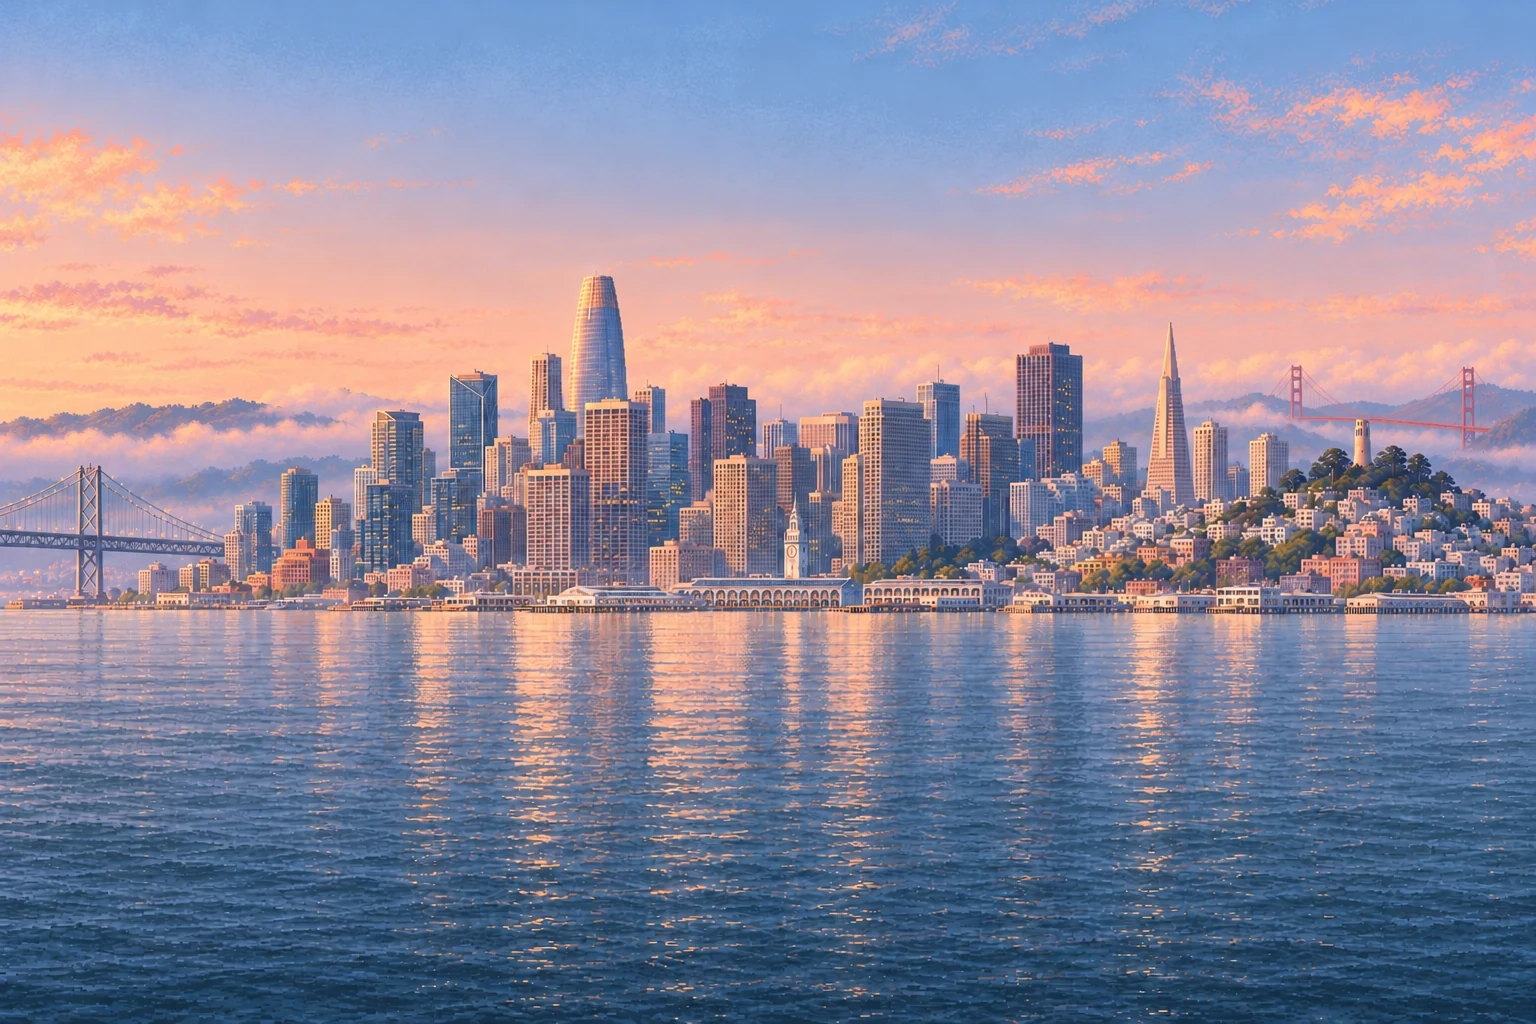
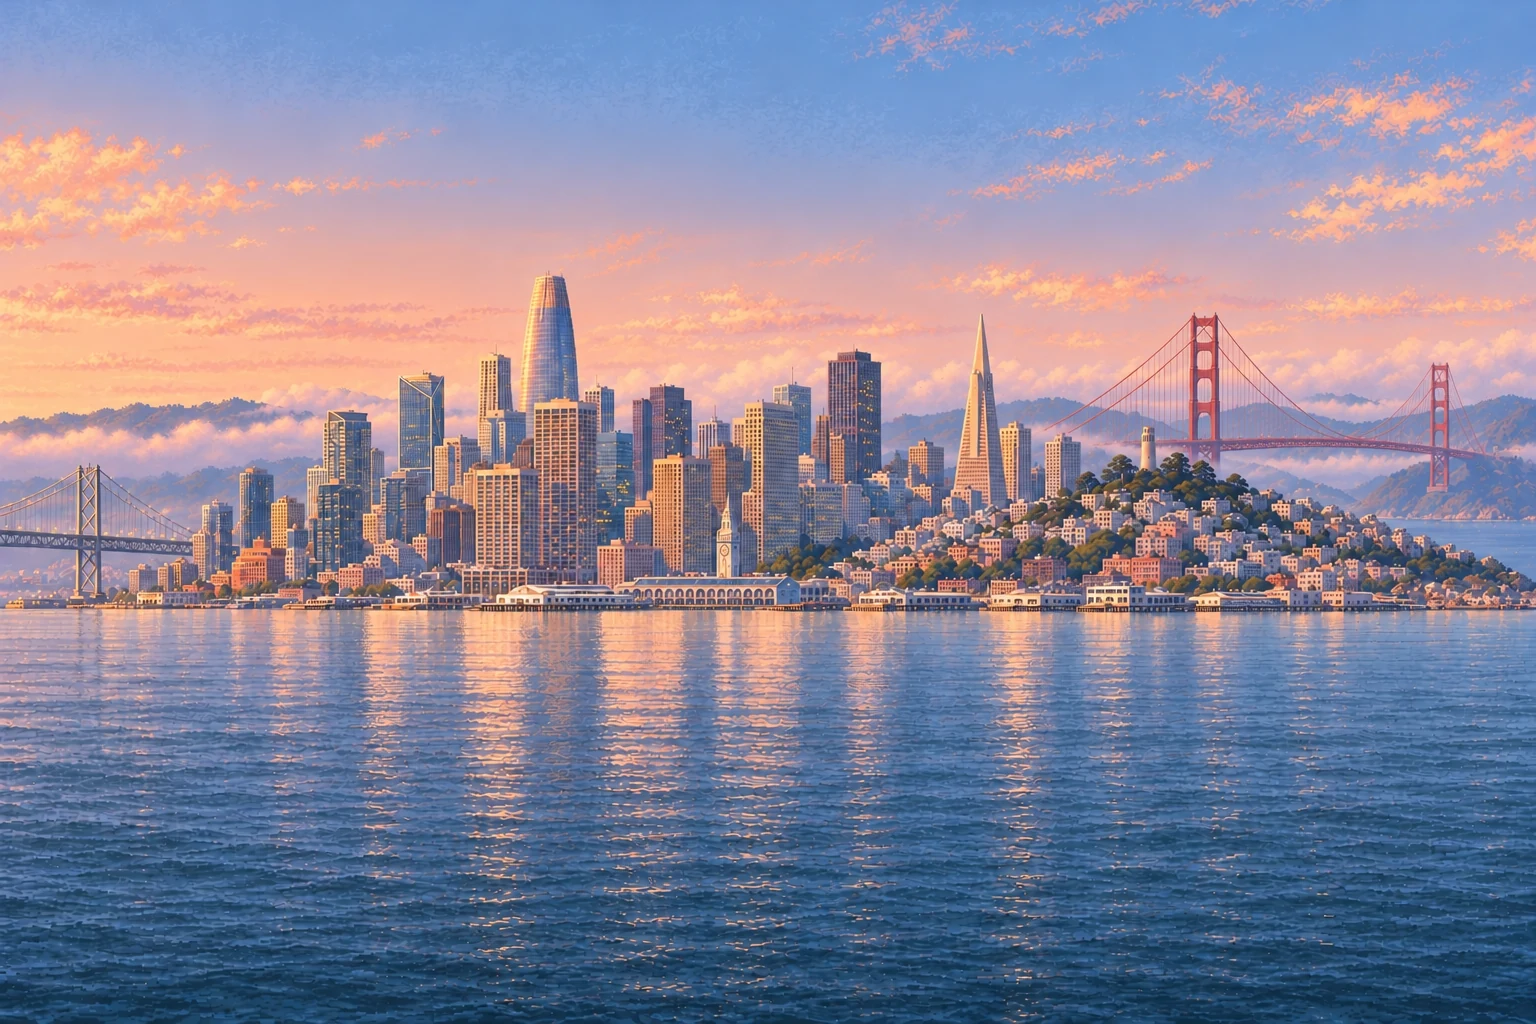
style(artwork): emphasize the Golden Gate Bridge

diff --git a/src/assets/artwork/sf/GOLDEN_GATE_PROMPTS.md b/src/assets/artwork/sf/GOLDEN_GATE_PROMPTS.md
@@ -1,19 +1,48 @@
 ## Golden Gate Bridge revision prompts
 
-The daytime image was edited first. Each remaining variant used that edited daytime composition as image 1 and its original lighting variant as image 2. Generated PNGs were encoded as WebP with `cwebp -q 88 -m 6`.
+## October 27, 2026 — larger background bridge
+
+Generated with the built-in imagegen tool and approved after preview. The Golden Gate Bridge occupies the right third while the city remains the main subject. Each image is 1536×1024, encoded with `cwebp -q 88 -m 6`.
+
+The day edit used the October 21 artwork as image 1 and a rejected foreground-bridge concept as image 2 to establish the intended intermediate scale. Dawn, sunset, and night each used the new day composition as image 1 and their October 21 counterpart as the palette reference.
 
 ### Day
 
-Use case: precise-object-edit. Asset type: San Francisco desktop app background, landscape 3:2. Input image 1 is the edit target. Add the recognizable International Orange GOLDEN GATE BRIDGE in the distant right side of this San Francisco bay panorama, beyond the waterfront and Telegraph Hill, with two unmistakable tall rectangular Art Deco suspension towers, curved main cables, delicate vertical suspension cables, and a horizontal road deck spanning a gap in the distant coastal hills. The existing silver Bay Bridge on the far left should remain; the Golden Gate is a second bridge, on the right. Make both orange towers visible and the silhouette recognizable at desktop background scale, integrated into the coastal haze with believable depth. Adjust only the distant right hills and a few small background blocks needed to reveal it. Preserve the main downtown skyline, Salesforce Tower, Transamerica Pyramid, Coit Tower, Ferry Building, existing foreground water, sky, horizon height, existing fine dithered pixel-painting style, subtle natural colors, late morning daylight and landscape aspect ratio. The Golden Gate should feel part of the original editorial illustration. Keep expansive calm water across the bottom 40% for UI overlay. No text, logos, UI, borders, extra landmarks, boats or dramatic lighting. Return one finished full image.
+Use case: precise-object-edit.
+Asset type: San Francisco desktop-app background. One full-bleed landscape 3:2 illustration, 1536x1024.
+Input image 1 is the ORIGINAL skyline artwork to revise. Input image 2 is a REJECTED example: its bridge is far too large and dominates the foreground. Find the clear middle ground: a much more readable Golden Gate than image 1, substantially smaller and farther away than image 2.
+Recompose the right third of image 1. Give the Golden Gate Bridge about 35 percent of the total image width, extending from x=65% to the right edge. Two distinct orange towers centered approximately at x=74% and x=93%; the nearer tower's top around y=25%, the far tower's top around y=29%, road deck around y=46%, bases hidden naturally behind distant shoreline around y=51%. These bridge towers must be about 2.5 TIMES THE ORIGINAL TOWER HEIGHT so the difference is visibly obvious. The nearer bridge tower should be comparable in apparent height to the Transamerica Pyramid but remain subordinate to the entire downtown cluster. Curved orange suspension cables and both Art Deco towers must be unmistakable against pale sky.
+Make room by shifting the Transamerica Pyramid slightly toward the center and compressing the rightmost city buildings and hills. Downtown remains the main subject, occupying the left and middle two-thirds, with Salesforce Tower and Ferry Building prominent. Keep Coit Tower and a small hill below the new bridge. The bridge stays BEHIND the city and Telegraph Hill with believable coastal depth; it must never cross in front of the downtown buildings or span the foreground water. Keep the separate small gray Bay Bridge at the far left. No additional bridge duplicates.
+Preserve the original's calm expansive water across the bottom 40 percent, cloud shapes, horizon placement, clear late-morning light, soft coastal haze, restrained natural palette and fine dithered editorial pixel-painting technique. The orange bridge should have moderate saturation and less haze than the original so it reads clearly at thumbnail scale.
+This is a meaningful composition adjustment to the right third: do not output the unchanged original or another tiny distant bridge. Also do not reproduce the giant foreground bridge from image 2.
+No text, UI, border, labels, watermark, boats, people or photorealism. Return one complete DAY image.
 
 ### Dawn
 
-Use case: lighting-weather. Asset type: San Francisco desktop app background, 1536x1024 landscape 3:2. Image 1 is the EDIT TARGET and exact composition master with the newly added Golden Gate Bridge in the distant right. Image 2 is the original DAWN edition, used ONLY as lighting and palette reference. Create the matching DAWN edition of image 1. Preserve the EXACT composition, every skyline shape and landmark, the silver Bay Bridge on the left and the International Orange Golden Gate Bridge on the right, including its two rectangular Art Deco towers, main cables, suspension cables, road deck, scale and placement. Preserve waterfront, horizon, sky/cloud placement, calm water, aspect ratio and the exquisite fine dithered pixel-painting technique. Change ONLY lighting and atmosphere: first quiet morning light: soft dusty rose and apricot horizon, cool pearl-blue upper sky, blue-gray architecture gently grazed by peach light, low silver coastal mist, muted misty-blue bay with faint blush reflections and a few lingering window lights. Match image 2's original DAWN lighting. The Golden Gate is muted warm terracotta emerging from the haze. The sun and moon are out of frame. Keep bottom 40% quiet bay water suitable for a UI overlay. No text, UI, frame, logos, watermarks, boats, extra buildings, extra bridges, neon, fireworks or dense stars. Return one finished full image.
+Use case: lighting-weather.
+Asset type: San Francisco desktop-app background, one landscape 3:2 image.
+Image 1 is the EDIT TARGET and EXACT COMPOSITION MASTER: the revised daytime skyline with a moderately enlarged Golden Gate Bridge in the right third. Image 2 is the original DAWN artwork, used ONLY as the lighting and color palette reference. Do not copy image 2's old building placements or its much smaller Golden Gate Bridge.
+Create the matching DAWN edition of IMAGE 1, changing ONLY lighting and atmospheric color.
+Preserve precisely image 1's composition: every building shape and position, Salesforce Tower at left of center, Transamerica just right of center, Ferry Building, Coit Tower and hill, small silver Bay Bridge at the far left, and the enlarged two-tower Golden Gate Bridge occupying the right third. Keep the bridge tower heights, scale, placement, characteristic rectangular openings, main cables, vertical suspenders and road deck exactly as in image 1. Do not shrink or enlarge the bridge. Preserve the same shoreline, hills, sky and cloud layout, water level, quiet foreground water, aspect ratio and fine dithered editorial pixel-painting technique.
+Lighting: The first quiet light around 6 am: pale dusty rose and apricot at the horizon fading upward into cool pearl-blue sky, delicate peach on the upper facades, subtle low silver coastal mist, a few softly lit windows, subdued misty blue water with gentle blush reflections. The bridge towers remain clearly readable muted warm terracotta; mist does not obscure the enlarged span. Restrained and gentle.
+Sun and moon out of frame. No neon, cyberpunk, purple fantasy, fireworks, dense stars, boats, people, text, labels, logos, UI, border or watermark. Return one complete full-bleed DAWN image, not a grid.
 
 ### Sunset
 
-Use case: lighting-weather. Asset type: San Francisco desktop app background, 1536x1024 landscape 3:2. Image 1 is the EDIT TARGET and exact composition master with the newly added Golden Gate Bridge in the distant right. Image 2 is the original SUNSET edition, used ONLY as lighting and palette reference. Create the matching SUNSET edition of image 1. Preserve the EXACT composition, every skyline shape and landmark, the silver Bay Bridge on the left and the International Orange Golden Gate Bridge on the right, including its two rectangular Art Deco towers, main cables, suspension cables, road deck, scale and placement. Preserve waterfront, horizon, sky/cloud placement, calm water, aspect ratio and the exquisite fine dithered pixel-painting technique. Change ONLY lighting and atmosphere: late golden hour just after the sun has slipped behind the western hills: burnished amber and copper horizon, warm orange cloud undersides and slate-blue upper sky, dark warm-gray skyline with amber rim light, golden windows and waterfront lights, deep petrol-blue water with long copper-gold reflections. Match image 2's original SUNSET lighting. The Golden Gate is a warm red-orange silhouette with subtle golden road lights. The sun and moon are out of frame. Keep bottom 40% quiet bay water suitable for a UI overlay. No text, UI, frame, logos, watermarks, boats, extra buildings, extra bridges, neon, fireworks or dense stars. Return one finished full image.
+Use case: lighting-weather.
+Asset type: San Francisco desktop-app background, one landscape 3:2 image.
+Image 1 is the EDIT TARGET and EXACT COMPOSITION MASTER: the revised daytime skyline with a moderately enlarged Golden Gate Bridge in the right third. Image 2 is the original SUNSET artwork, used ONLY as the lighting and color palette reference. Do not copy image 2's old building placements or its much smaller Golden Gate Bridge.
+Create the matching SUNSET edition of IMAGE 1, changing ONLY lighting and atmospheric color.
+Preserve precisely image 1's composition: every building shape and position, Salesforce Tower at left of center, Transamerica just right of center, Ferry Building, Coit Tower and hill, small silver Bay Bridge at the far left, and the enlarged two-tower Golden Gate Bridge occupying the right third. Keep the bridge tower heights, scale, placement, characteristic rectangular openings, main cables, vertical suspenders and road deck exactly as in image 1. Do not shrink or enlarge the bridge. Preserve the same shoreline, hills, sky and cloud layout, water level, quiet foreground water, aspect ratio and fine dithered editorial pixel-painting technique.
+Lighting: Late golden hour just after the sun has dropped behind the western hills: burnished amber and copper horizon, apricot cloud undersides, upper sky muted slate blue, dark warm-gray buildings with amber rim light, scattered golden windows and warm waterfront lights reflecting in deep petrol-blue water. The bridge is a clearly readable warm rust-red silhouette with delicate golden roadway lights. Warm and cinematic while retaining the original palette's restraint.
+Sun and moon out of frame. No neon, cyberpunk, purple fantasy, fireworks, dense stars, boats, people, text, labels, logos, UI, border or watermark. Return one complete full-bleed SUNSET image, not a grid.
 
 ### Night
 
-Use case: lighting-weather. Asset type: San Francisco desktop app background, 1536x1024 landscape 3:2. Image 1 is the EDIT TARGET and exact composition master with the newly added Golden Gate Bridge in the distant right. Image 2 is the original NIGHT edition, used ONLY as lighting and palette reference. Create the matching NIGHT edition of image 1. Preserve the EXACT composition, every skyline shape and landmark, the silver Bay Bridge on the left and the International Orange Golden Gate Bridge on the right, including its two rectangular Art Deco towers, main cables, suspension cables, road deck, scale and placement. Preserve waterfront, horizon, sky/cloud placement, calm water, aspect ratio and the exquisite fine dithered pixel-painting technique. Change ONLY lighting and atmosphere: late evening: deep ink-navy sky with faint cool cloud texture and coastal haze, charcoal and blue towers with small warm ivory windows, Salesforce crown softly lit cool white, Transamerica apex and Coit Tower subtly illuminated, warm waterfront lights and delicate broken gold and white reflections in midnight-teal water. Match image 2's original NIGHT lighting. The Golden Gate remains visible as muted red-orange towers with warm road lights and faint red tower beacons. The sun and moon are out of frame. Keep bottom 40% quiet bay water suitable for a UI overlay. No text, UI, frame, logos, watermarks, boats, extra buildings, extra bridges, neon, fireworks or dense stars. Return one finished full image.
+Use case: lighting-weather.
+Asset type: San Francisco desktop-app background, one landscape 3:2 image.
+Image 1 is the EDIT TARGET and EXACT COMPOSITION MASTER: the revised daytime skyline with a moderately enlarged Golden Gate Bridge in the right third. Image 2 is the original NIGHT artwork, used ONLY as the lighting and color palette reference. Do not copy image 2's old building placements or its much smaller Golden Gate Bridge.
+Create the matching NIGHT edition of IMAGE 1, changing ONLY lighting and atmospheric color.
+Preserve precisely image 1's composition: every building shape and position, Salesforce Tower at left of center, Transamerica just right of center, Ferry Building, Coit Tower and hill, small silver Bay Bridge at the far left, and the enlarged two-tower Golden Gate Bridge occupying the right third. Keep the bridge tower heights, scale, placement, characteristic rectangular openings, main cables, vertical suspenders and road deck exactly as in image 1. Do not shrink or enlarge the bridge. Preserve the same shoreline, hills, sky and cloud layout, water level, quiet foreground water, aspect ratio and fine dithered editorial pixel-painting technique.
+Lighting: Late evening: deep ink-navy sky, subtle cool cloud texture and low atmospheric haze, dark charcoal-blue architecture with delicate warm ivory windows, Salesforce crown gently glowing cool white, Transamerica tip and Coit Tower softly illuminated, warm waterfront lights and fine broken gold reflections in midnight-teal water. The enlarged bridge remains clearly readable as subdued red-orange towers and a graceful string of warm lights along the roadway, with tiny red beacons. Quiet natural city night; preserve shadow detail.
+Sun and moon out of frame. No neon, cyberpunk, purple fantasy, fireworks, dense stars, boats, people, text, labels, logos, UI, border or watermark. Return one complete full-bleed NIGHT image, not a grid.

diff --git a/src/assets/artwork/sf/README.md b/src/assets/artwork/sf/README.md
@@ -1,8 +1,8 @@
 # San Francisco skyline backgrounds
 
-Original artwork generated with the built-in imagegen tool on October 20, 2026, and edited with the same tool on October 21 to include the Golden Gate Bridge in every lighting variant. The daytime composition is the reference for the three lighting edits. All four are bundled locally as optimized 1536×1024 WebP images; the interface retains its existing Fluid theme.
+Original artwork generated with the built-in imagegen tool on October 20, 2026, edited on October 21 to include the Golden Gate Bridge, and revised on October 27 to make the bridge more prominent while keeping the city dominant. The October 27 set was approved after preview. The daytime composition is the reference for the three lighting edits. All four are bundled locally as optimized 1536×1024 WebP images; the interface retains its existing Fluid theme.
 
-The Bay Bridge remains on the left, with the Golden Gate Bridge's orange suspension towers in the distant right. This is a stylized panorama rather than an exact geographic view.
+The Bay Bridge remains on the left, with the Golden Gate Bridge's larger orange suspension towers and span occupying the right third behind Telegraph Hill. This is a stylized panorama rather than an exact geographic view.
 
 The [Golden Gate revision prompts](GOLDEN_GATE_PROMPTS.md) record the current asset edits; the original generation prompts are preserved below.
 
